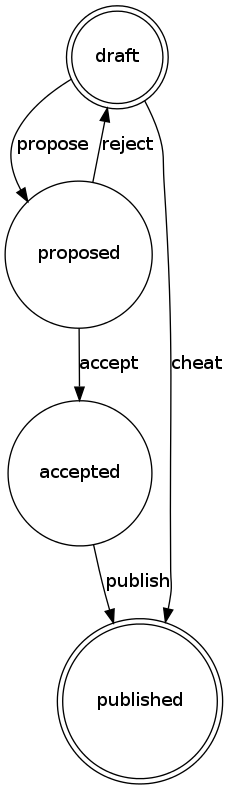
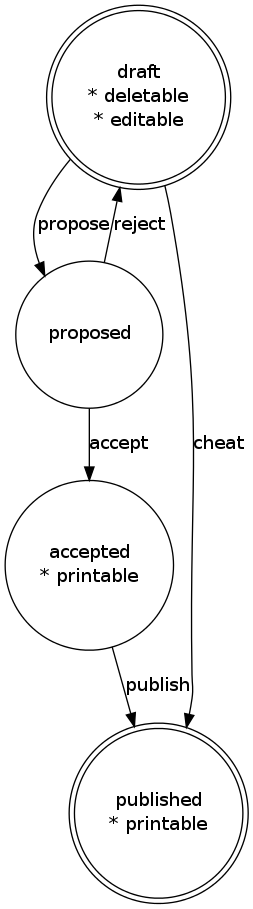
updated the example

diff --git a/examples/rendered-graph.php b/examples/rendered-graph.php
@@ -53,5 +53,6 @@ $stateMachine = new Finite\StateMachine\StateMachine($document);
 $loader->load($stateMachine);
 $stateMachine->initialize();
 
-$renderer = new \Finite\Visualisation\Graphviz();
-$renderer->render($stateMachine, __DIR__ . '/rendered-graph.png');
+$config = new Finite\Visualisation\Configuration(__DIR__ . '/rendered-graph.png', true);
+$renderer = new \Finite\Visualisation\Graphviz($config);
+$renderer->render($stateMachine);
